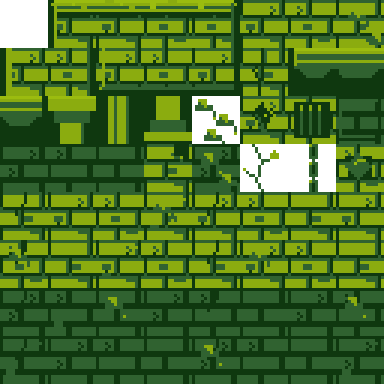
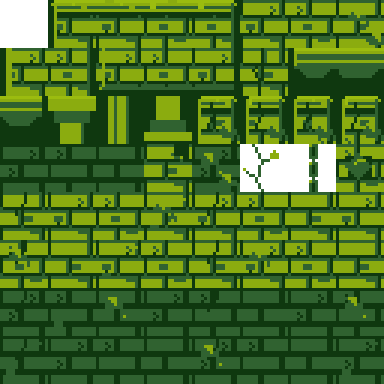
Tarefa 2: acrescenta tijolos gastos, musgo e decoração de obstáculos

Changed region(s): [[0.5, 0.25, 1.0, 0.375]]

diff --git a/tools/arte/gerar_cenario.js b/tools/arte/gerar_cenario.js
@@ -100,6 +100,8 @@ for(var n=32;n<64;n++){
  if(n%5===0)moss(3,5);
  if(n%7===0){box(2,11,4,12,n>=48?2:14);line(11,2,13,2,n>=48?3:16);}
 }
+// Bordas lascadas, juntas quebradas e musgo em variantes dedicadas.
+for(var n=20;n<24;n++){tile(n);top(n,true,true);for(var a=0;a<3;a++){box(a,0,a,2-a,0);box(15-a,13+a,15,15,0);}line(6,2,7,6,0);line(7,6,5,10,0);moss(9,11);}
 save('crypt_tiles');
 
 // Arquitetura de fundo: valores contidos deixam as bordas jogáveis mais claras.

diff --git a/docs/TAREFAS_VERDE.md b/docs/TAREFAS_VERDE.md
@@ -1,25 +1,36 @@
-# Paleta e dificuldade — entregas
+# Paleta e dificuldade â€” entregas
 
-## Tarefa 1 — paleta
+## Tarefa 1 â€” paleta
 
 Quatro cores fixas em sprites, frames/layers, fontes bitmap, caches de tiles, atlas,
-mapa, jogador, portrait e prévias PNG. Conversão realizada no LibreSprite batch;
-`tools/arte/gameboy.py` apenas prepara os jobs e lê os arquivos para auditoria.
-Paleta: `art/palette/gameboy-green.gpl`. Transparências visíveis são binárias.
-O retrato usa a segunda referência fornecida pelo usuário, adaptada às quatro cores.
+mapa, jogador, portrait e prÃ©vias PNG. ConversÃ£o realizada no LibreSprite batch;
+`tools/arte/gameboy.py` apenas prepara os jobs e lÃª os arquivos para auditoria.
+Paleta: `art/palette/gameboy-green.gpl`. TransparÃªncias visÃveis sÃ£o binÃ¡rias.
+O retrato usa a segunda referÃªncia fornecida pelo usuÃ¡rio, adaptada Ã s quatro cores.
 
-Código de cores da UI/partículas ajustado e shader de quantização na apresentação;
-o shader do Scribble também limita a cor de saída e alpha. Filtro antigo de colorização
-desativado nas rooms para não acrescentar cores. Branco técnico em chamadas de tint
-é multiplicador neutro, não cor exibida deliberadamente.
+CÃ³digo de cores da UI/partÃculas ajustado e shader de quantizaÃ§Ã£o na apresentaÃ§Ã£o;
+o shader do Scribble tambÃ©m limita a cor de saÃda e alpha. Filtro antigo de colorizaÃ§Ã£o
+desativado nas rooms para nÃ£o acrescentar cores. Branco tÃ©cnico em chamadas de tint
+Ã© multiplicador neutro, nÃ£o cor exibida deliberadamente.
 
-Arquivos: sprites/fonts/tilesets/assets PNGs e fontes ASEprite, código de cores em
-objects e scripts próprios, `shaders/shd_gameboy`, shader Scribble, `rooms/*`, ferramentas
-`gameboy.py/.js`, referência fornecida em `art/reference`, `.yyp` e este relatório.
+Arquivos: sprites/fonts/tilesets/assets PNGs e fontes ASEprite, cÃ³digo de cores em
+objects e scripts prÃ³prios, `shaders/shd_gameboy`, shader Scribble, `rooms/*`, ferramentas
+`gameboy.py/.js`, referÃªncia fornecida em `art/reference`, `.yyp` e este relatÃ³rio.
 
-Verificação: `python tools/arte/gameboy.py` grava `docs/palette-audit.json`.
-Resultado inicial: **261 PNGs, zero pixels visíveis fora da paleta, zero alpha parcial**.
-O relatório final será atualizado após as três tarefas.
+VerificaÃ§Ã£o: `python tools/arte/gameboy.py` grava `docs/palette-audit.json`.
+Resultado inicial: **261 PNGs, zero pixels visÃveis fora da paleta, zero alpha parcial**.
+O relatÃ³rio final serÃ¡ atualizado apÃ³s as trÃªs tarefas.
 
-Testar na IDE: menu, diálogo, jogador/morcego, HUD, luz, partículas, filtro G e fullscreen.
-Conferir a paleta também na imagem final; auditoria dos arquivos não é captura do runner.
+Testar na IDE: menu, diÃ¡logo, jogador/morcego, HUD, luz, partÃculas, filtro G e fullscreen.
+Conferir a paleta tambÃ©m na imagem final; auditoria dos arquivos nÃ£o Ã© captura do runner.
+
+## Tarefa 2 — materiais e obstáculos visuais
+
+Atlas com tijolo normal/rachado/com musgo, bordas lascadas e variantes de canto,
+mapa com correntes, teias, ossos, lápides, arcos, grades e caixões. A vegetação agora
+usa a mesma linguagem de musgo/trepadeiras. Base 16×16 e origens preservadas.
+Arquivos: gerar_cenario.js, gerar_mapa.js, assets/environment e PNGs de spr_crypt_map.
+Regerados no LibreSprite; nova auditoria de paleta sem violações.
+As formas físicas irregulares/degraus entram na tarefa 3, junto dos colisores,
+para não desenhar uma borda que não corresponde ao apoio real.
+Testar na IDE: cantos, junções e leitura clara de plataformas contra fundo escuro.
